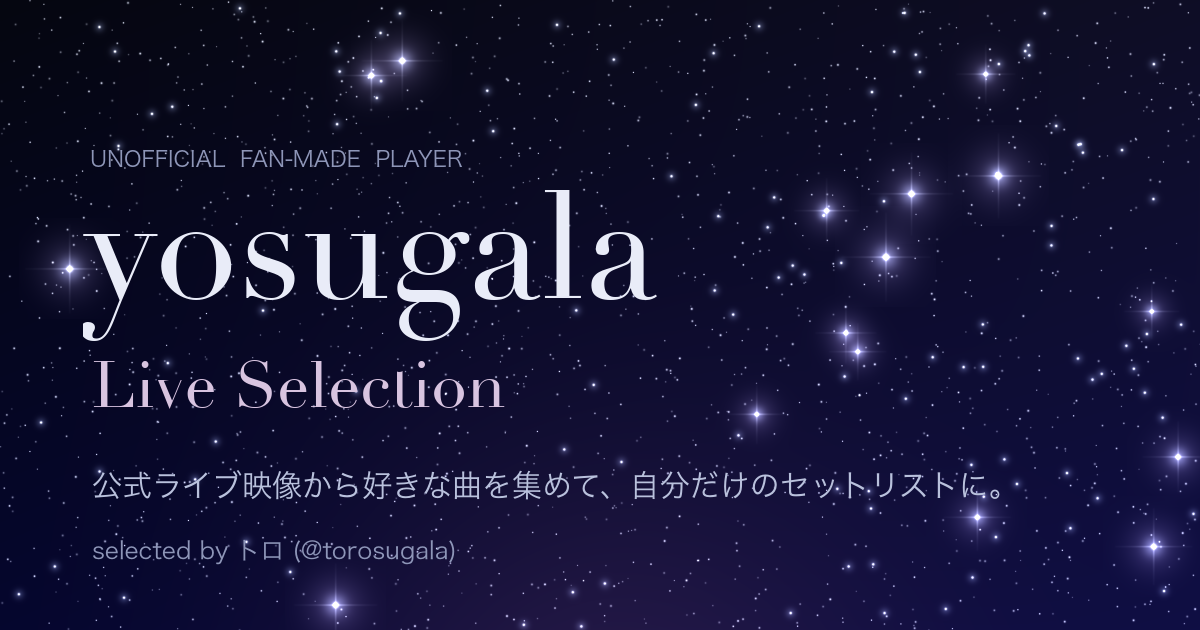
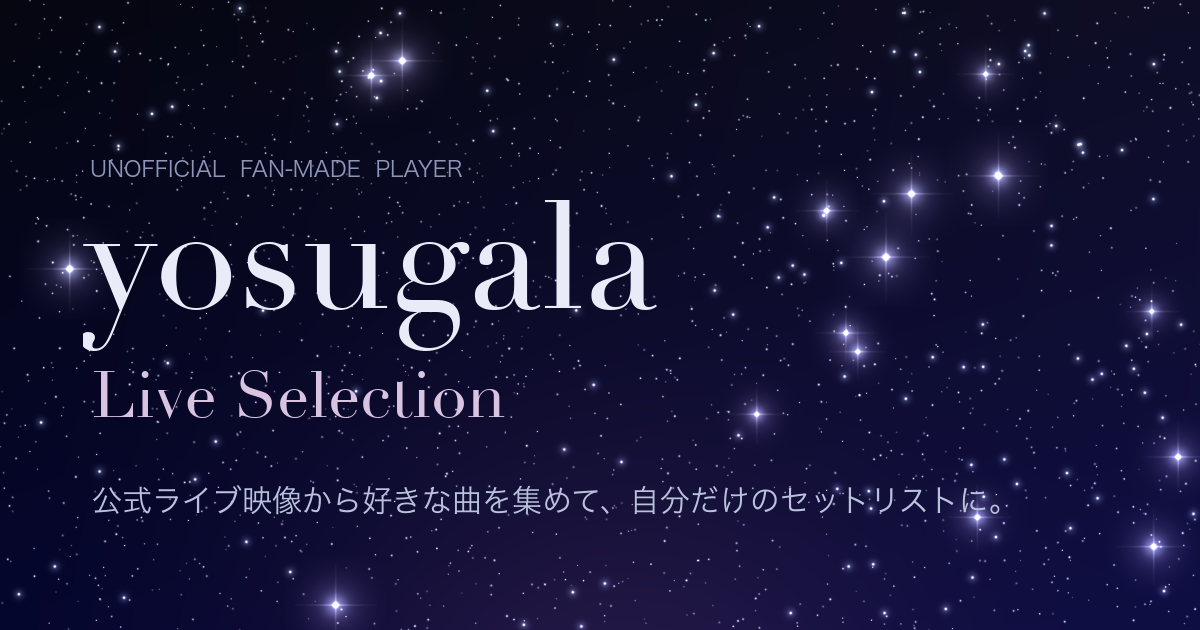
Starfield page background, playlist author field, drop personal credit from site and share image

diff --git a/index.html b/index.html
@@ -17,7 +17,6 @@
 <meta property="og:image:alt" content="yosugala Live Selection — 非公式ファンメイドプレイヤー">
 <meta property="og:locale" content="ja_JP">
 <meta name="twitter:card" content="summary_large_image">
-<meta name="twitter:creator" content="@torosugala">
 <link rel="manifest" href="manifest.webmanifest">
 <link rel="apple-touch-icon" href="icon-180.png">
 <link rel="icon" type="image/png" sizes="192x192" href="icon-192.png">
@@ -43,25 +42,23 @@
   }
   * { box-sizing: border-box; }
   html { background: var(--night-0); }
-  body { margin: 0; min-height: 100vh; color: var(--text); font-family: var(--sans); line-height: 1.6;
-    background: radial-gradient(120% 70% at 50% 115%, rgba(243,183,195,.20), transparent 60%),
-                radial-gradient(90% 60% at 85% -10%, rgba(80,100,220,.25), transparent 60%),
-                linear-gradient(180deg, var(--night-0) 0%, var(--night-1) 45%, var(--night-2) 100%);
-    background-attachment: fixed; }
+  body { margin: 0; min-height: 100vh; color: var(--text); font-family: var(--sans); line-height: 1.6; background: var(--night-0); }
   /* 星 */
   body::before, body::after { content: ""; position: fixed; inset: 0; pointer-events: none; z-index: 0; }
-  body::before { background-image:
-      radial-gradient(1px 1px at 12% 18%, #fff, transparent), radial-gradient(1px 1px at 28% 72%, #dfe6ff, transparent),
-      radial-gradient(1.5px 1.5px at 44% 32%, #fff, transparent), radial-gradient(1px 1px at 63% 12%, #cfd9ff, transparent),
-      radial-gradient(1px 1px at 78% 54%, #fff, transparent), radial-gradient(1.5px 1.5px at 91% 26%, #e8ecff, transparent),
-      radial-gradient(1px 1px at 6% 88%, #fff, transparent), radial-gradient(1px 1px at 55% 90%, #dfe6ff, transparent),
-      radial-gradient(1px 1px at 35% 8%, #fff, transparent), radial-gradient(1px 1px at 86% 82%, #fff, transparent);
-    background-size: 420px 420px; opacity: .55; }
+  /* 星空の背景画像（サムネイルと同じ作り方）。iPhone でも固定されるよう擬似要素で敷く */
+  body::before { background: linear-gradient(rgba(5,6,15,.22), rgba(5,6,15,.22)), #05060f url(bg.jpg) center / cover no-repeat; }
+  /* 星の上でも文字が読めるように、ほんのり影をつける */
+  .hero, .now, .pdesc-head, footer { text-shadow: 0 0 10px rgba(5,6,15,.95), 0 0 2px rgba(5,6,15,.9); }
+  h1 .sub { text-shadow: none; filter: drop-shadow(0 0 8px rgba(5,6,15,.9)); }
+  /* タイトルまわりの背景をほんのり暗くして、星と文字が重なっても読めるように */
+  .hero { position: relative; }
+  .hero::before { content: ""; position: absolute; inset: -40px -80px -30px -60px; z-index: -1; pointer-events: none;
+    background: radial-gradient(closest-side, rgba(5,6,15,.75), rgba(5,6,15,.35) 60%, transparent); }
   body::after { background-image:
       radial-gradient(1px 1px at 20% 40%, #fff, transparent), radial-gradient(1px 1px at 70% 30%, #fff, transparent),
       radial-gradient(1.5px 1.5px at 50% 65%, #cfd9ff, transparent), radial-gradient(1px 1px at 90% 70%, #fff, transparent);
     background-size: 260px 260px; opacity: .35; animation: twinkle 6s ease-in-out infinite alternate; }
-  @keyframes twinkle { from { opacity: .15; } to { opacity: .5; } }
+  @keyframes twinkle { from { opacity: .05; } to { opacity: .35; } }
   @media (prefers-reduced-motion: reduce) { body::after { animation: none; } }
 
   main { position: relative; z-index: 1; max-width: 1180px; margin: 0 auto; padding: calc(40px + env(safe-area-inset-top)) 24px 56px; }
@@ -137,6 +134,8 @@
   .prow { display: flex; gap: 8px; align-items: center; flex-wrap: wrap; }
   .prow select { flex: 1 1 160px; min-width: 0; background: rgba(5,6,15,.5); border: 1px solid var(--line-2); border-radius: 10px; padding: 8px 10px; }
   .meta { color: var(--muted); font-size: .78rem; letter-spacing: .05em; }
+  .author { color: var(--muted); font-size: .78rem; }
+  .author a { color: var(--moon); }
   .pdesc { margin-top: 14px; }
   .pdesc-head { color: var(--moon); font-family: var(--serif); font-style: italic; font-size: .95rem; letter-spacing: .08em; }
   .pdesc-body { margin-top: 8px; padding: 16px 18px; border-radius: 14px; background: var(--glass); border: 1px solid var(--line);
@@ -312,10 +311,11 @@
           <button class="btn small" type="button" id="plDup">複製</button>
           <button class="btn small" type="button" id="plShare">共有リンク</button>
           <button class="btn small" type="button" id="plIO">書き出し / 読み込み</button>
-          <button class="btn small" type="button" id="plDesc">説明を編集</button>
+          <button class="btn small" type="button" id="plDesc">説明・作成者を編集</button>
           <button class="btn small danger" type="button" id="plDelete">削除</button>
         </div>
         <div class="meta" id="plMeta"></div>
+        <div class="author" id="plAuthor" hidden></div>
       </div>
       <ol id="list" aria-label="曲リスト"></ol>
       <div class="pfoot"><button class="btn" type="button" id="addSong">＋ 曲を追加</button></div>
@@ -362,8 +362,12 @@
 <!-- プレイリストの説明 -->
 <dialog id="descDlg">
   <form method="dialog">
-    <h2>プレイリストの説明</h2>
-    <p class="hint">選曲の意図や並べ方など、自由に書けます。URL と X のアカウント名（@名前）はリンクになります。共有リンクにも含まれます。</p>
+    <h2>説明・作成者</h2>
+    <label>作成者（任意。例：トロ（@torosugala））
+      <input type="text" id="authorText" maxlength="80" autocomplete="off">
+    </label>
+    <label>説明（選曲の意図や並べ方など、自由に）</label>
+    <p class="hint">URL と X のアカウント名（@名前）はリンクになります。どちらも共有リンクに含まれます。</p>
     <textarea id="descText" maxlength="5000" style="min-height: 240px; font-family: var(--sans); font-size: .85rem;"></textarea>
     <div class="actions">
       <button class="btn" value="cancel">キャンセル</button>
@@ -408,6 +412,7 @@ const DEFAULT_ITEMS = [
   ['x4nkkUcnD_Q', 0, null, 'きっかけ', 'tour2025 FINAL', 249],
 ];
 const DEFAULT_NAME = 'ライブ映像セレクション 16曲';
+const DEFAULT_AUTHOR = 'トロ（@torosugala）';
 const OLD_DEFAULT_NAMES = ['人気曲セレクション 16曲'];   // 以前の名前（保存済みのものを新しい名前に変える）
 const DEFAULT_DESC = `トロ（@torosugala）が個人的に選んだ、yosugala の公式ライブ映像16曲のセレクションです。yosugala 公式のものではありません。
 
@@ -498,7 +503,7 @@ const itemLen = (it) => it.end != null ? it.end - it.start : (it.len ?? null);
 // ---------- 保存 ----------
 const KEY = 'yosugala-live-selection-v1';
 function defaultPlaylist() {
-  return { id: uid(), name: DEFAULT_NAME, desc: DEFAULT_DESC, items: DEFAULT_ITEMS.map(([vid, start, end, title, live, len]) =>
+  return { id: uid(), name: DEFAULT_NAME, author: DEFAULT_AUTHOR, desc: DEFAULT_DESC, items: DEFAULT_ITEMS.map(([vid, start, end, title, live, len]) =>
     ({ id: uid(), vid, start, end, title, live, len: len ?? null })) };
 }
 function load() {
@@ -511,6 +516,7 @@ function load() {
         if (OLD_DEFAULT_NAMES.includes(p.name)) p.name = DEFAULT_NAME;
         if (p.desc == null) p.desc = p.name === DEFAULT_NAME ? DEFAULT_DESC : '';
         if (OLD_DEFAULT_DESCS.includes(p.desc)) p.desc = DEFAULT_DESC;
+        if (p.author == null) p.author = p.name === DEFAULT_NAME ? DEFAULT_AUTHOR : '';
         p.items.forEach((it) => { if (it.vid === 'nd6EJzBDS60' && it.start === 4508 && it.end === 4771) { it.end = 4739; it.len = null; } });
       });
       if (s.playlists.length) return s;
@@ -524,10 +530,10 @@ function save() { try { localStorage.setItem(KEY, JSON.stringify(state)); } catc
 const pl = () => state.playlists.find((p) => p.id === state.current) || state.playlists[0];
 
 // 共有・書き出し用のコンパクトな形式
-function pack(p) { return { name: p.name, desc: p.desc || '', items: p.items.map((it) => [it.vid, it.start, it.end, it.title, it.live || '', it.len ?? null]) }; }
+function pack(p) { return { name: p.name, author: p.author || '', desc: p.desc || '', items: p.items.map((it) => [it.vid, it.start, it.end, it.title, it.live || '', it.len ?? null]) }; }
 function unpack(o) {
   if (!o || !Array.isArray(o.items)) throw new Error('形式が正しくありません');
-  return { id: uid(), name: String(o.name || '読み込んだプレイリスト').slice(0, 80), desc: String(o.desc || '').slice(0, 5000), items: o.items.map((a) => {
+  return { id: uid(), name: String(o.name || '読み込んだプレイリスト').slice(0, 80), author: String(o.author || '').slice(0, 80), desc: String(o.desc || '').slice(0, 5000), items: o.items.map((a) => {
     if (!Array.isArray(a) || !/^[\w-]{11}$/.test(a[0])) throw new Error('動画IDが正しくありません');
     return { id: uid(), vid: a[0], start: +a[1] || 0, end: a[2] == null ? null : +a[2], title: String(a[3] || '(無題)'),
              live: String(a[4] || ''), len: a[5] == null ? null : +a[5] };
@@ -675,17 +681,22 @@ function renderSelect() {
   sel.value = pl().id;
 }
 // 説明文（URL だけリンクにして、それ以外はテキストのまま表示）
-function renderDesc() {
-  const d = (pl().desc || '').trim(), body = $('pdescBody');
-  $('pdesc').hidden = !d; body.textContent = '';
-  // URL と X のアカウント名（@名前）をリンクにする
-  d.split(/(https?:\/\/[^\s]+|@[A-Za-z0-9_]{1,15}\b)/g).forEach((part, i) => {
+// URL と X のアカウント名（@名前）をリンクにして el に入れる
+function linkify(el, text) {
+  el.textContent = '';
+  text.split(/(https?:\/\/[^\s]+|@[A-Za-z0-9_]{1,15}\b)/g).forEach((part, i) => {
     if (i % 2) {
       const a = document.createElement('a'); a.textContent = part; a.target = '_blank'; a.rel = 'noopener';
       a.href = part.startsWith('@') ? `https://x.com/${part.slice(1)}` : part;
-      body.appendChild(a);
-    } else body.appendChild(document.createTextNode(part));
+      el.appendChild(a);
+    } else el.appendChild(document.createTextNode(part));
   });
+}
+function renderDesc() {
+  const d = (pl().desc || '').trim(), au = (pl().author || '').trim();
+  $('pdesc').hidden = !d; linkify($('pdescBody'), d);
+  $('plAuthor').hidden = !au;
+  if (au) { linkify($('plAuthor'), au); $('plAuthor').prepend('作成：'); }
 }
 function renderList() {
   renderDesc();
@@ -832,8 +843,11 @@ $('plNew').addEventListener('click', () => {
   const name = prompt('新しいプレイリストの名前', '新しいプレイリスト'); if (!name) return;
   const p = { id: uid(), name: name.trim().slice(0, 80), items: [] }; state.playlists.push(p); switchTo(p.id);
 });
-$('plDesc').addEventListener('click', () => { $('descText').value = pl().desc || ''; $('descDlg').showModal(); });
+$('plDesc').addEventListener('click', () => {
+  $('authorText').value = pl().author || ''; $('descText').value = pl().desc || ''; $('descDlg').showModal();
+});
 $('descSave').addEventListener('click', () => {
+  pl().author = $('authorText').value.trim().slice(0, 80);
   pl().desc = $('descText').value.trim().slice(0, 5000); save(); renderDesc(); $('descDlg').close();
 });
 $('plRename').addEventListener('click', () => {
@@ -872,7 +886,7 @@ let shared = null;
   const m = location.hash.match(/#pl=([\w-]+)/);
   if (!m) return;
   try { shared = unpack(JSON.parse(b64dec(m[1]))); } catch { $('msg').textContent = '共有リンクを読み込めませんでした。'; return; }
-  $('shareText').textContent = `共有されたプレイリスト「${shared.name}」（${shared.items.length} 曲）を開いています。`;
+  $('shareText').textContent = `共有されたプレイリスト「${shared.name}」（${shared.items.length} 曲${shared.author ? '・作成：' + shared.author : ''}）を開いています。`;
   $('shareBanner').hidden = false;
   state.playlists.push(shared); state.current = shared.id;   // 保存はボタンを押したときだけ
 })();
@@ -909,7 +923,7 @@ state.captions = false;
 // シークバーは曲の範囲（開始〜終了）だけを表す
 function segment() {
   const it = items()[curIndex()], dur = player && player.getDuration ? player.getDuration() : 0;
-  const vid = player && player.getVideoData ? player.getVideoData().video_id : null;
+  const vd = player && player.getVideoData ? player.getVideoData() : null, vid = vd ? vd.video_id : null;
   const cur = it || items()[0];
   if (cur && cur.vid === vid && !previewing) return { s: cur.start, e: cur.end != null ? cur.end : dur };
   return { s: 0, e: dur };
@@ -949,7 +963,7 @@ function wake() {
   $('stage').classList.remove('idle'); clearTimeout(idleTimer);
   // タッチ端末は動画をタップしてもページに伝わらず、隠すと戻せなくなるので隠さない
   if (isFs() && !matchMedia('(pointer: coarse)').matches) idleTimer = setTimeout(() => {
-    if (isFs() && player.getPlayerState() === YT.PlayerState.PLAYING && !seeking)
+    if (isFs() && player && ready && player.getPlayerState() === YT.PlayerState.PLAYING && !seeking)
       $('stage').classList.add('idle');
   }, 3000);
 }
